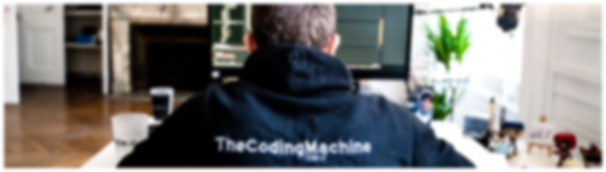
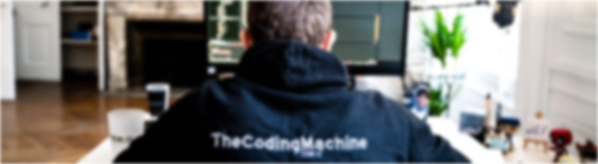
[FEAT] changed images

diff --git a/index.html b/index.html
@@ -33,6 +33,7 @@
         .bg-image-blue {
             background-size: cover;
             background-repeat: no-repeat;
+            background-position: center;
             background-image:
                     linear-gradient(45deg, rgba(81, 64, 186, 0.7), rgba(81, 64, 186, 0.7)),
                     url('/images/pages/banner_background.png');
@@ -41,25 +42,28 @@
         .bg-image-green {
             background-size: cover;
             background-repeat: no-repeat;
+            background-position: center;
             background-image:
                     linear-gradient(45deg, rgba(109, 224, 141, 0.7), rgba(109, 224, 141, 0.7)),
-                    url('/images/pages/banner_background.png');
+                    url('/images/pages/tutoriel.png');
         }
 
         .bg-image-pink {
             background-size: cover;
             background-repeat: no-repeat;
+            background-position: center;
             background-image:
                     linear-gradient(45deg, rgba(255, 141, 250, 0.7), rgba(255, 141, 250, 0.7)),
-                    url('/images/pages/banner_background.png');
+                    url('/images/pages/workadventure.png');
         }
 
         .bg-image-purple {
             background-size: cover;
             background-repeat: no-repeat;
+            background-position: center;
             background-image:
                     linear-gradient(45deg, rgba(165, 98, 231, 0.7), rgba(165, 98, 231, 0.7)),
-                    url('/images/pages/banner_background.png');
+                    url('/images/pages/template.png');
         }
     </style>
 </head>
@@ -116,7 +120,7 @@
                 </h1>
                 <div class="sm:grid grid-cols-2 md:grid-cols-3 mx-6">
                     <a href="https://alixbtcm.github.io/Avalon-quest-TDM/" target="_blank" class="sm:m-2 hover:m-0">
-                        <div class="h-full w-full border-2 rounded-xl p-3 hover:m-0 hover:bg-gray-100">
+                        <div class="h-full w-full border-2 rounded-xl p-3 hover:m-0 hover:bg-gray-100 mb-2">
                             <div>
                                 <h2 class="text-2xl">Avalon Quest</h2>
                             </div>
@@ -138,7 +142,7 @@
                         </div>
                     </a>
                     <a class="sm:m-2 hover:m-0" target="_blank" href="https://morganehuebra.github.io/WeasleyProject/">
-                        <div class="h-full w-full border-2 rounded-xl p-3 hover:m-0 hover:bg-gray-100">
+                        <div class="h-full w-full border-2 rounded-xl p-3 hover:m-0 hover:bg-gray-100 mb-2">
                             <div>
                                 <h2 class="text-2xl">Projet Weasley</h2>
                             </div>
